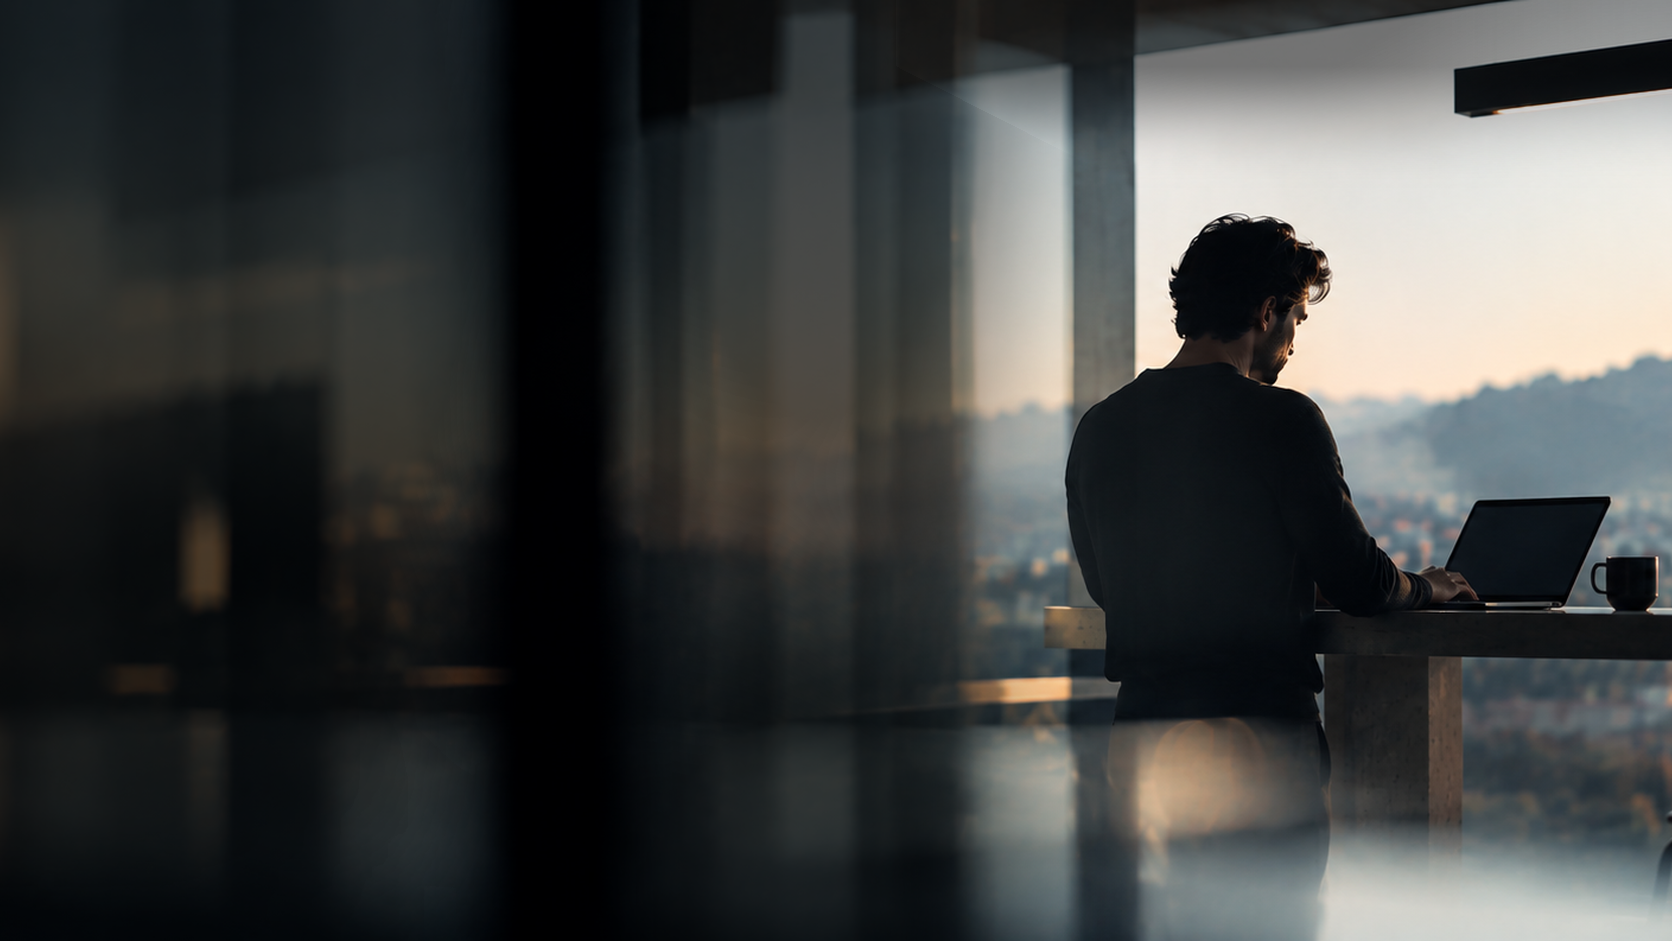
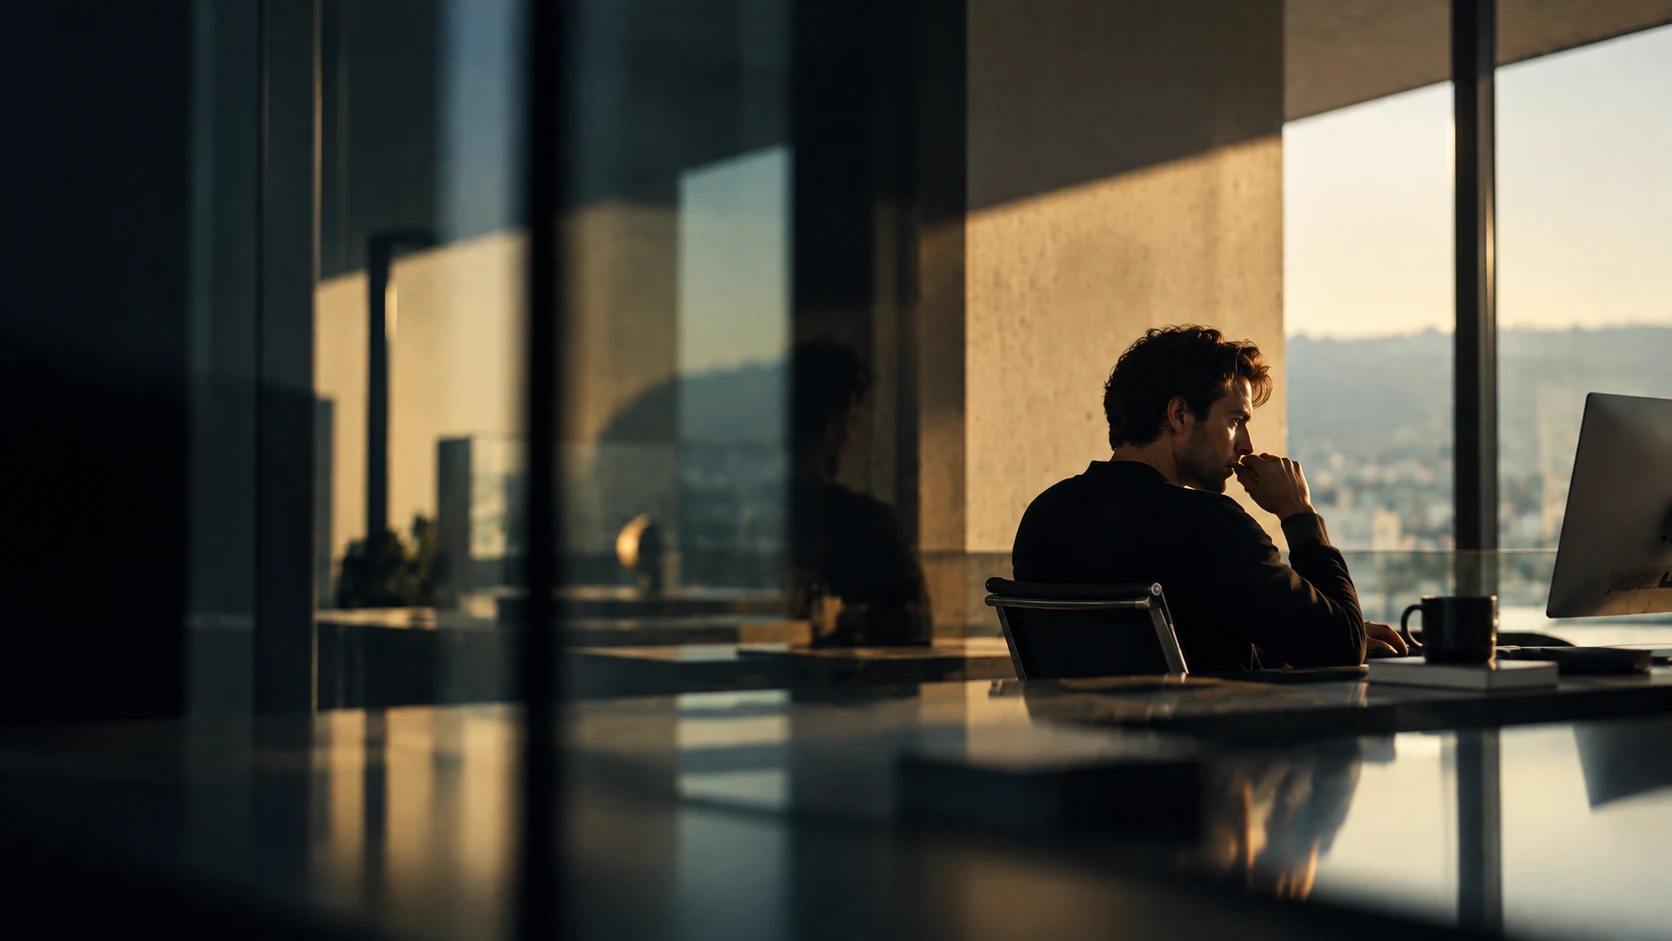
Hero-Overlay auf Bildschatten-Farbe + Luminanz-Atem, Mann-Motiv angepasst (#456)
* Hero-Overlay auf der Startseite leichter + atmendes Licht in den Glas-Spiegelungen

Vorschau-Commit (nicht freigegeben, kein PR, kein Merge):

1. Desktop-Overlay (.kv--hero[data-kv="c"]::before ab 1100 px) etwa
   20 % weniger dunkel: Stops 0 %/44 %/60 %/72 % jeweils von .88
   auf .72, von .66 auf .50, von .36 auf .22. Der Text bleibt links
   deutlich auf dunklem Grund, die Szene insgesamt wirkt leichter.

2. Zwei warme radiale Lichtpunkte in den Glas-Spiegelungen, als
   neues ::after-Pseudoelement:
   - Spot 1: ellipse 38 %/32 % bei 32 % x / 55 % y
     (vertikale Reflexion links-mittig)
   - Spot 2: ellipse 28 %/22 % bei 50 % x / 82 % y (Bodenreflex)
   - Farbton rgba(255,200,135,…) warm, mix-blend-mode plus-lighter,
     damit nur helle Bild-Bereiche aufgehellt werden.
   Animation hero-breathe: opacity .55 → 1 → .55 über 9 s,
   ease-in-out.

3. Nur Desktop (min-width:1100px) und nur bei
   prefers-reduced-motion: no-preference — kein Flackern für
   Nutzer, die Bewegung reduzieren.

4. Isolation + z-index auf .wrap=2, damit das ::after unter dem Text
   und über dem Bild liegt und nicht das Overlay stört.

Claude-Session: https://claude.ai/code/session_0119P6w4gctW1YqjFThgGXEo

* Hero-Motiv „Mann am Laptop": neues Bild (freigegeben)

Zweites Hero-Motiv durch neue Fassung ersetzt: Mann in Seitenansicht
am großen Monitor/Mac mit Tischspiegelung, Blick ins Fenster mit
Stadtansicht in der Dämmerung. Komposition und Proportion (16:9,
[…]

diff --git a/index.html b/index.html
@@ -335,7 +335,20 @@ html[data-hero="m"] .kv[data-kv="c"]{--hero-img:image-set(url("assets/photo/work
 .kv[data-kv="c"] .btn--p{background:#ECEDEF;color:#0B0D10}
 .kv[data-kv="c"] .btn--s{background:transparent;color:#ECEDEF;border-color:#68707B}
 .kv--hero::before{background:linear-gradient(100deg,rgba(255,255,255,.6) 0%,rgba(255,255,255,.3) 34%,rgba(255,255,255,0) 58%)}
-.kv--hero[data-kv="c"]::before{background:linear-gradient(90deg,rgba(11,13,16,.88) 0%,rgba(11,13,16,.66) 44%,rgba(11,13,16,.36) 60%,rgba(11,13,16,0) 72%)}
+/* 27.11.: Overlay-Farbe direkt aus den Bild-Schatten gemessen (rgb(7,12,16)), damit das Overlay in die Bildfarben übergeht */
+.kv--hero[data-kv="c"]::before{background:linear-gradient(90deg,rgba(7,12,16,.72) 0%,rgba(7,12,16,.50) 44%,rgba(7,12,16,.22) 60%,rgba(7,12,16,0) 72%)}
+/* Mann-Motiv: links deutlich kräftiger, weil das Bild dort mehr helle Spiegelungen zeigt */
+html[data-hero="m"] .kv--hero[data-kv="c"]::before{background:linear-gradient(90deg,rgba(7,12,16,.95) 0%,rgba(7,12,16,.80) 44%,rgba(7,12,16,.40) 60%,rgba(7,12,16,0) 72%)}
+/* 27.11.: Luminanz-Film (reines Weiß, mix-blend-mode soft-light) lässt die hellen Stellen des Bildes (Glas-Spiegelungen, Himmel, Gesicht) sanft an- und abschwellen. Keine Farbverschiebung, keine Geometrie-Bewegung. Nur Desktop und nicht bei reduzierter Bewegung. */
+@media (min-width:1100px){
+  .kv--hero[data-kv="c"]{isolation:isolate}
+  .kv--hero[data-kv="c"]::after{content:"";position:absolute;inset:0;pointer-events:none;z-index:0;background:rgba(255,255,255,.55);mix-blend-mode:soft-light;opacity:.6}
+  .kv--hero[data-kv="c"] .wrap{z-index:2}
+}
+@media (min-width:1100px) and (prefers-reduced-motion: no-preference){
+  .kv--hero[data-kv="c"]::after{animation:hero-breathe 11s ease-in-out infinite}
+}
+@keyframes hero-breathe{0%,100%{opacity:.2}50%{opacity:1}}
 .nav{background:rgba(247,248,250,.72)}
 .ben{display:grid;grid-template-columns:repeat(auto-fit,minmax(min(100%,250px),1fr));gap:1px;background:var(--bd);border-top:1px solid var(--bd);border-bottom:1px solid var(--bd)}
 .ben>div{background:var(--bg);padding:28px 0;display:flex;flex-direction:column;gap:10px}
@@ -347,10 +360,10 @@ html[data-hero="m"] .kv[data-kv="c"]{--hero-img:image-set(url("assets/photo/work
   .kv--hero{min-height:900px;height:auto}
   .kv--hero[data-kv="a"]{background-position:66% bottom}
   .kv--hero[data-kv="b"]{background-position:70% center}
-  .kv--hero[data-kv="c"]{background-image:linear-gradient(180deg,rgba(11,13,16,0) 0%,rgba(11,13,16,0) 30%,#0B0D10 50%,#0B0D10 100%),var(--hero-img);background-size:100% 100%,auto 70%;background-position:0 0,93% top;background-repeat:no-repeat;min-height:max(700px,100svh);align-items:flex-end}
+  .kv--hero[data-kv="c"]{background-image:linear-gradient(180deg,rgba(7,12,16,0) 0%,rgba(7,12,16,0) 30%,#070C10 50%,#070C10 100%),var(--hero-img);background-size:100% 100%,auto 70%;background-position:0 0,93% top;background-repeat:no-repeat;min-height:max(700px,100svh);align-items:flex-end}
   .kv--hero[data-kv="c"] .wrap{padding-top:0;padding-bottom:max(56px,calc(env(safe-area-inset-bottom,0px) + 40px))}
   .kv--hero::before{background:linear-gradient(180deg,rgba(255,255,255,.7) 0%,rgba(255,255,255,.5) 50%,rgba(255,255,255,0) 72%)}
-  .kv--hero[data-kv="c"]::before{background:linear-gradient(180deg,rgba(11,13,16,.45) 0%,rgba(11,13,16,0) 22%)}
+  .kv--hero[data-kv="c"]::before{background:linear-gradient(180deg,rgba(7,12,16,.45) 0%,rgba(7,12,16,0) 22%)}
   .kv--hero .wrap{padding-top:calc(var(--nav-h) + 40px)}
 }
 
@@ -636,8 +649,8 @@ main{overflow-x:clip}
 @media (max-width:1099px){.sct th:nth-child(2),.sct td:nth-child(2),.sct th:nth-child(4),.sct td:nth-child(4),.sct th:nth-child(5),.sct td:nth-child(5){display:none}}
 /* 15.11.: Hero 720 bis 1099 px: Bild oben ganz sichtbar, Text darunter */
 @media (min-width:720px) and (max-width:1099px){
-.kv--hero[data-kv="c"]{background-image:linear-gradient(180deg,rgba(11,13,16,0) 0,rgba(11,13,16,0) calc(56.28vw * .55),#0B0D10 calc(56.28vw * .98)),var(--hero-img);background-size:100% 100%,100% auto;background-position:0 0,0 0;background-repeat:no-repeat;min-height:calc(56.28vw + 460px);align-items:flex-end}
-.kv--hero[data-kv="c"]::before{background:linear-gradient(180deg,rgba(11,13,16,.45) 0,rgba(11,13,16,0) 120px)}
+.kv--hero[data-kv="c"]{background-image:linear-gradient(180deg,rgba(7,12,16,0) 0,rgba(7,12,16,0) calc(56.28vw * .55),#070C10 calc(56.28vw * .98)),var(--hero-img);background-size:100% 100%,100% auto;background-position:0 0,0 0;background-repeat:no-repeat;min-height:calc(56.28vw + 460px);align-items:flex-end}
+.kv--hero[data-kv="c"]::before{background:linear-gradient(180deg,rgba(7,12,16,.45) 0,rgba(7,12,16,0) 120px)}
 .kv--hero[data-kv="c"] .wrap{padding-top:0;padding-bottom:56px}
 .kvh h1{font-size:clamp(48px,7.4vw,68px)}
 }
